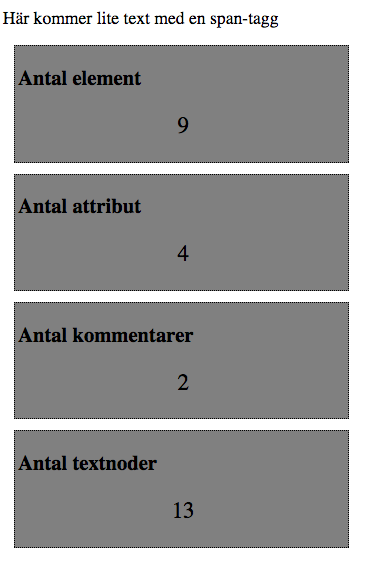
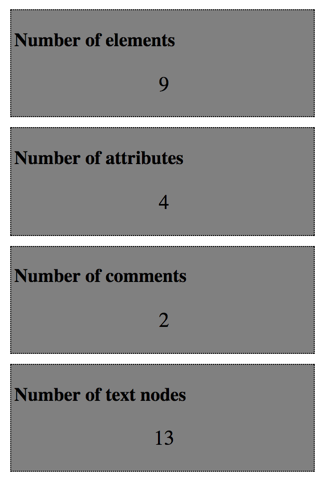
Updated to english

diff --git a/README.md b/README.md
@@ -13,12 +13,7 @@ The resultat should be presented for each and every part in the template. The pr
 * [https://developer.mozilla.org/en-US/docs/Web/HTML/Element/template](https://developer.mozilla.org/en-US/docs/Web/HTML/Element/template)
 
 Look at the picture below for an example of the result.
-OBS! This image was captured with plugins activated so your result could vary. Below is the translation of the swedish.
+OBS! This image was captured with plugins activated so your result could vary. 
 
 ![facit bild](facit.png)
 
-* "Här kommer lite text med en span-tagg" == "Here are some text whitin a span tag"
-* "Antal element" == "Number of elements"
-* "Antal attribut" == "Number of attributes"
-* "Antal kommentarer" == "Number of comments"
-* "Antal textnoder" == "Number of text node"
